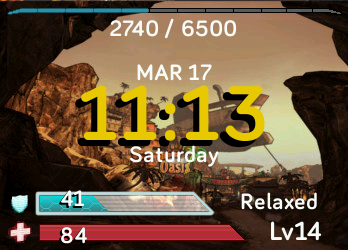
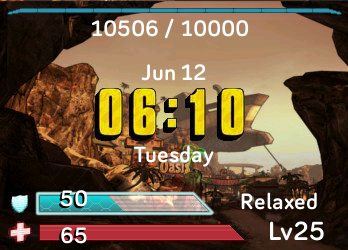
Changed orange font to use Borderlands like font (simulated font with images) * Optimised some images a bit to save more space * Battery highlighting now acts as a low battery warning, turning red if on 30% battery or lower

diff --git a/app/index.js b/app/index.js
@@ -25,6 +25,7 @@ stepGoalField.text = userActivity.goals.steps || 0;
 
 //BATTERY
 import { battery } from "power";
+
 let batteryField = document.getElementById('battery');
 let batteryFieldSh = document.getElementById('batteryShadow');
 let batteryBar = document.getElementById('shield_bar');
@@ -79,28 +80,56 @@ function updateDate() {
 }
 
 //CLOCK
+import { preferences } from "user-settings";
 import clock from "clock";
 import * as util from "../common/utils";
 
 clock.granularity = "minutes";
 
-let time = document.getElementById("time");
-let timeSh = document.getElementById("timeShadow");
+let numH1 = document.getElementById("timeH1");
+let numH2 = document.getElementById("timeH2");
+let numM1 = document.getElementById("timeM1");
+let numM2 = document.getElementById("timeM2");
 
 function updateClock() {
     let today = new Date();
     let hours = today.getHours();
-    hours = hours % 12;
-    hours = hours ? util.zeroPad(hours) : 12;
-    let mins = util.zeroPad(today.getMinutes());
+    let mins = today.getMinutes();
 
-    time.text = `${hours}:${mins}`;
-    timeSh.text = `${hours}:${mins}`;
+    if (preferences.clockDisplay === "12h") {
+        // 12h format
+        hours = hours % 12 || 12;
+    } else {
+        // 24h format
+        hours = util.zeroPad(hours);
+    }
+
+    setHours(hours);
+    setMins(mins);
 
     updateDate();
 }
 
 clock.ontick = () => updateClock();
+
+function setHours(val) {
+  if (val > 9) {
+      drawDigit(Math.floor(val / 10), numH1);
+  } else {
+      drawDigit("0", numH1);
+  }
+
+  drawDigit(Math.floor(val % 10), numH2);
+}
+
+function setMins(val) {
+    drawDigit(Math.floor(val / 10), numM1);
+    drawDigit(Math.floor(val % 10), numM2);   
+}
+
+function drawDigit(val, place) {
+    place.image = `img/font/${val}.png`;
+}
 
 //HEART RATE MONITOR
 import { HeartRateSensor } from "heart-rate";

diff --git a/resources/styles.css b/resources/styles.css
@@ -1,3 +1,7 @@
+.hidden {
+  display: none;
+}
+
 #img_health {
   x: 39;
   y: 224;

diff --git a/README.md b/README.md
@@ -2,8 +2,13 @@
 **A Borderlands inspired watchface for the Fitbit Ionic**
 
 Health is your heart rate. When the bar is full it's reading your heart rate, if it's empty, it's not reading any pulse.  
+
 Shield is your battery percentage.  
+Shield highlight will turn red if your battery level is 30 or lower.
+
 The XP bar is your current steps towards your daily goal.  
 Your current Lv (level) is the amount of flights of stairs you've climbed today.
+
+Fitbit App Store link - https://gam.fitbit.com/gallery/clock/07d3316c-8550-424a-b19f-80fd2f0d0fcf
 
 ![My image](/readme_example.png)
